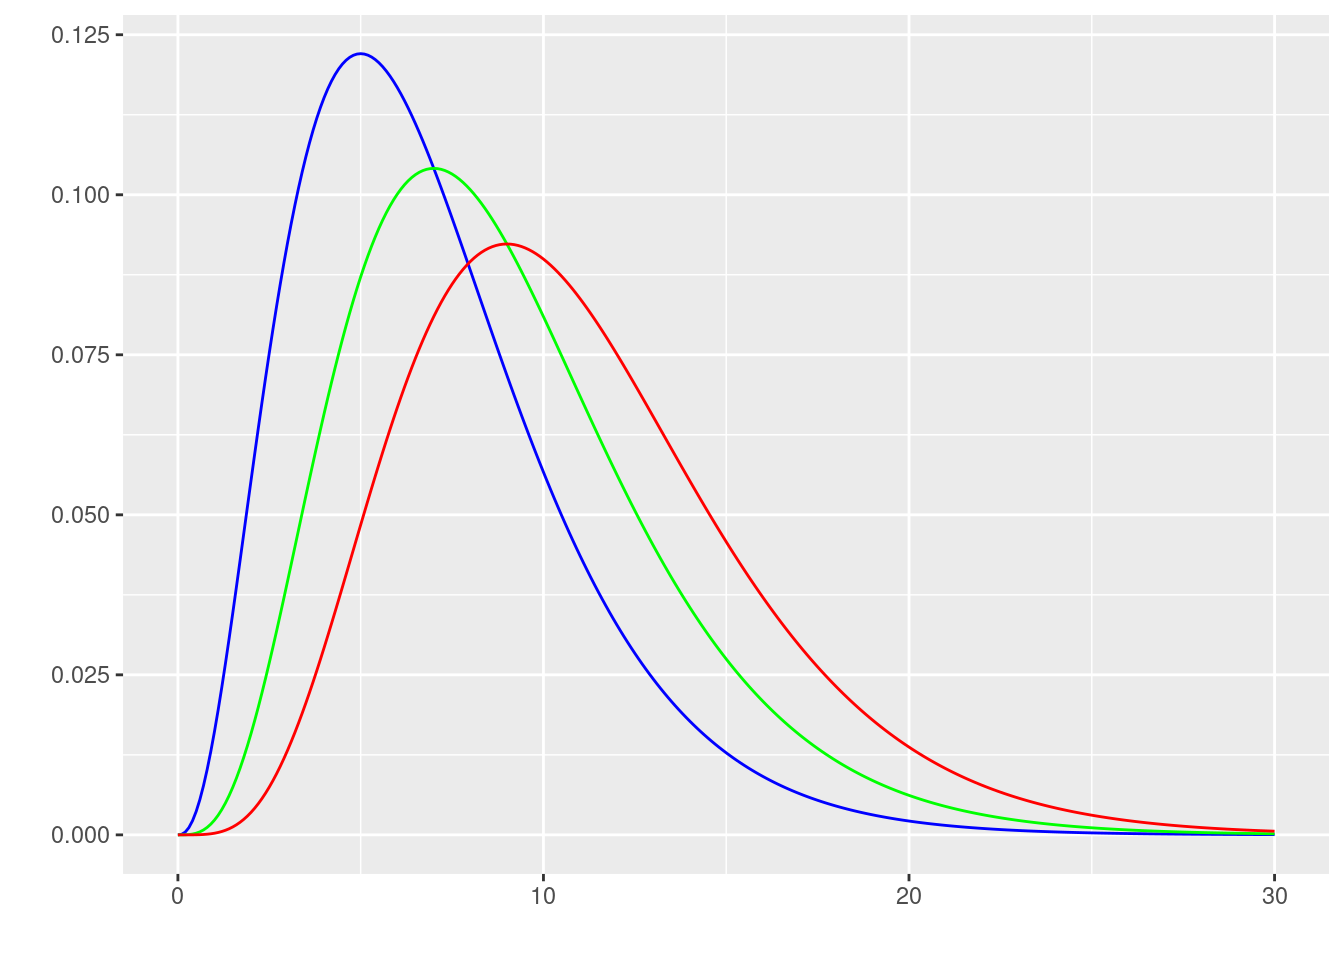
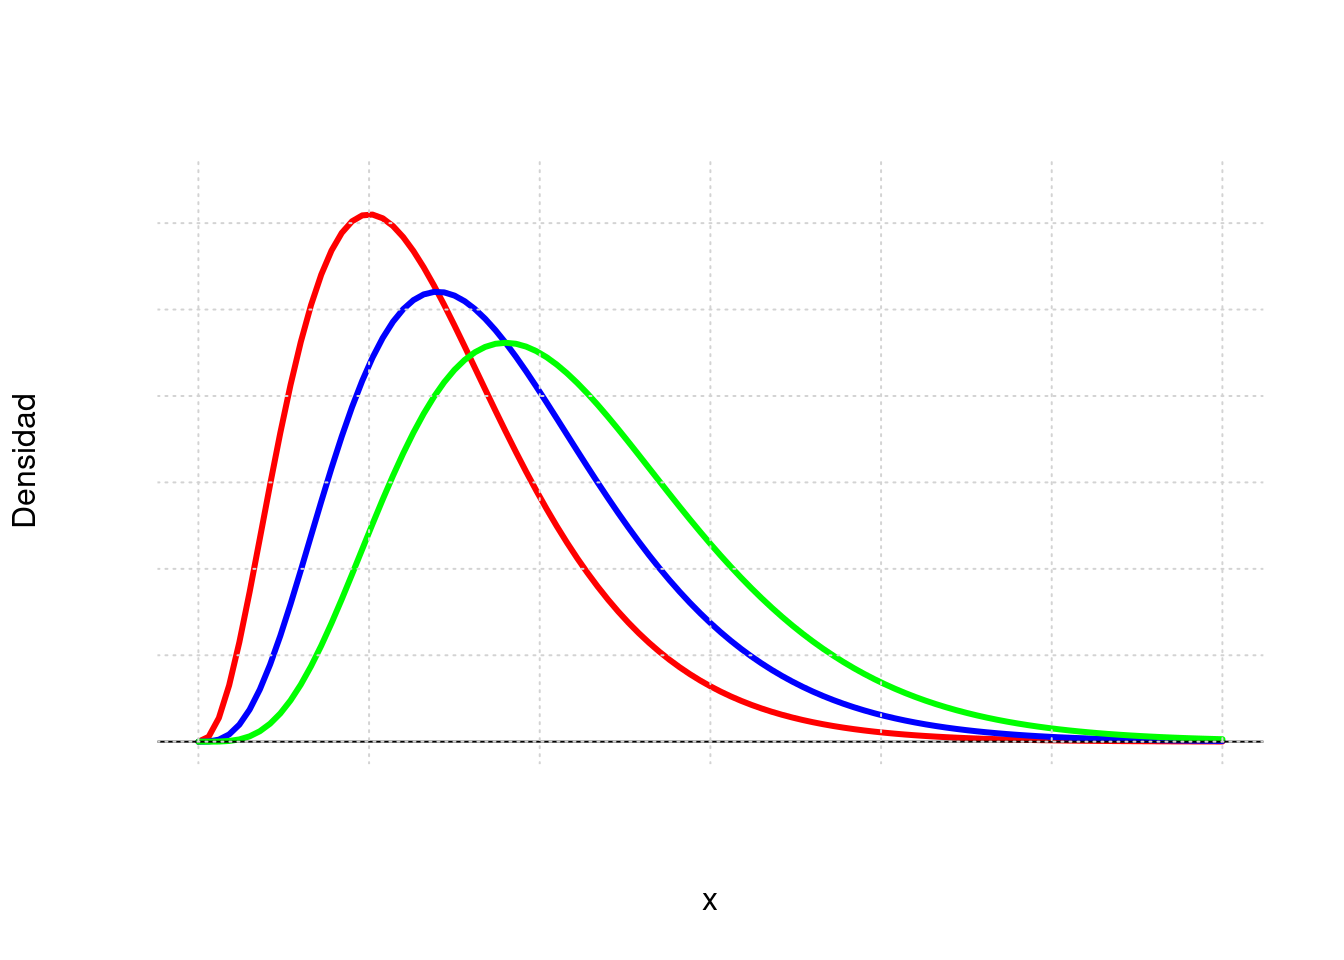
add graficos distribuciones t, chi2, f

diff --git a/Guia401.html b/Guia401.html
@@ -1144,10 +1144,6 @@ V[X]&amp;=&amp; \mu^{2}-(\mu^{1})^{2}\\
 <p>Si <span class="math inline">\(S^{2}\)</span> es la varianza de la muestra aleatoria de tamaño <span class="math inline">\(n\)</span> que se toma de una población normal que tiene varianza <span class="math inline">\(\sigma^{2}\)</span>, entonces el estadístico: <span class="math display">\[\chi^{2}=\frac{(n-1)S^{2}}{\sigma^{2}}=\sum_{i=1}^{n}\frac{\big(x_{i}-\bar{x}\big)^{2}}{\sigma^{2}}=\sum_{i=1}^{n} \Big(\frac{x_{i}-\bar{x}}{\sigma}\Big)^{2} \]</span> tiene una distribución chi-cuadrado con <span class="math inline">\(v=n-1\)</span> grados de libertad.</p>
 <p>Nota: Esta función fue creada por Karl Pearson cientifico inglés (1857-1936) y su función de distribución y su represntación gráfica estan dadas por:</p>
 <p><span class="math display">\[f(x)=\frac{1}{2^{(v/2)}\Gamma(v/2)}x^{(v/2)-1}\exp\{-x/2\} ,\hspace{.3cm} x&gt;0\]</span> <br/><br/></p>
-<pre class="r"><code># distribución chicuadrado
-p &lt;- ggdistribution(dchisq, seq(0, 30, 0.1), df = 7, colour = &#39;blue&#39;)
-p &lt;- ggdistribution(dchisq, seq(0, 30, 0.1), df = 9, colour = &#39;green&#39;, p = p)
-     ggdistribution(dchisq, seq(0, 30, 0.1), df = 11, colour = &#39;red&#39;, p = p)</code></pre>
 <p><img src="Guia401_files/figure-html/unnamed-chunk-2-1.png" width="672" /></p>
 <p>Esta distribución es un caso especial de la distribución Gamma con parámetros <span class="math inline">\(\alpha=\frac{v}{2}\)</span> y <span class="math inline">\(\beta=2\)</span></p>
 <p><br/><br/></p>
@@ -1159,7 +1155,7 @@ p &lt;- ggdistribution(dchisq, seq(0, 30, 0.1), df = 9, colour = &#39;green&#39;
 <p>Nota: Esta función de distribución fue propuesta por William Sealy Gosset en 1908. Gosset trabajaba en una fábrica de cerveza de prppiedad de Guiness, quien prohibia a sus empleados la publicación de artículos cientificos debido a la difución previa de secretos industriales. Debido a esta prohibición Gosset publicaba sus artículos con el seudonimo de Student.(Wikipedia.org)</p>
 <p>La función de probabilidad de distribución t-student y su represntación gráfica están dadas por:</p>
 <p><span class="math display">\[f(x)=\frac{\Gamma[(v+1)/2]}{\Gamma[v/2]\sqrt{\pi v}}\Bigg(1+\frac{x^{2}}{v} \Bigg)^{-(v+1)/2}, \hspace{.3cm} -\infty&lt; x&lt;\infty \]</span></p>
-<p><img src="img/gt.png" style="width:60.0%" /></p>
+<p><img src="Guia401_files/figure-html/unnamed-chunk-3-1.png" width="672" /></p>
 <p>La gráfica de la distribución t-student es similar a la de la distribución normal, salvo que sus colas son más pesadas.</p>
 <p>Si <span class="math inline">\(X_{1},X_{2},...,X_{n}\)</span> es una muestra aleatoria de <span class="math inline">\(n\)</span> variables independientemente e idénticamente distribuidas <span class="math inline">\(N(\mu,\sigma^{2})\)</span> y</p>
 <p><span class="math display">\[\bar{X}=\frac{1}{n}\sum_{i=1}^{n}X_{i} \]</span></p>
@@ -1177,7 +1173,7 @@ p &lt;- ggdistribution(dchisq, seq(0, 30, 0.1), df = 9, colour = &#39;green&#39;
 <p>Nota: Ronald Aylmer Fisher (1890-1962) cientifico, matemático, estadístico, biólogo evolutivo y genet?sta inglés fue el creador de la distribución F. Su función de distribución y su representación gráfica estan dadas por:</p>
 <p><span class="math display">\[f(x)=\displaystyle\frac{\Gamma \Bigg[\displaystyle\frac{v_{1}+v_{2}}{2}\Bigg]\Bigg(\displaystyle\frac{v_{1}}{v_{2}}\Bigg)^{v_{1}/2} x^{(v_{1}/2)-1}}{\Gamma \Bigg[\displaystyle\frac{v_{1}}{2}\Bigg] \Gamma \Bigg[\displaystyle\frac{v_{2}}{2}\Bigg]
 \Bigg[\Bigg(\displaystyle\frac{v_{1}}{v_{2}}\Bigg)x+1\Bigg]^{\big(v_{1}+v_{2}\big)/2}}, \hspace{.3cm} x&gt;0 \]</span></p>
-<p><img src="img/gf.png" style="width:50.0%" /></p>
+<p><img src="Guia401_files/figure-html/unnamed-chunk-4-1.png" width="672" /></p>
 <p><br/><br/></p>
 </div>
 </div>
@@ -1561,7 +1557,7 @@ P(p&gt;0.82) &amp;=&amp; P\Bigg(\dfrac{\widehat{p}-p}{(p(1-p)/\sqrt{n}} &gt; \df
 <p>El potencial de este teorema esta en que no importa la distribución de la variable X, la distribución de la media provemiente de la muestra tomada de esta población se distribuye aproximadamente normal. Al final de la guía se encuentra practica computacional que nos ayuda a comprender el alcance de este teorema.</p>
 <div id="verificación-del-teorema-central-del-límite" class="section level3">
 <h3><strong>Verificación del Teorema central del límite </strong></h3>
-<p><img src="Guia401_files/figure-html/unnamed-chunk-3-1.png" width="672" /><img src="Guia401_files/figure-html/unnamed-chunk-3-2.png" width="672" /><img src="Guia401_files/figure-html/unnamed-chunk-3-3.png" width="672" /></p>
+<p><img src="Guia401_files/figure-html/unnamed-chunk-5-1.png" width="672" /><img src="Guia401_files/figure-html/unnamed-chunk-5-2.png" width="672" /><img src="Guia401_files/figure-html/unnamed-chunk-5-3.png" width="672" /></p>
 <p>Se puede notar la transformación de la distribución de la media a una distribución normal a medida que el tamaño de muestra aumenta</p>
 <p><br/><br/><br/><br/></p>
 </div>
